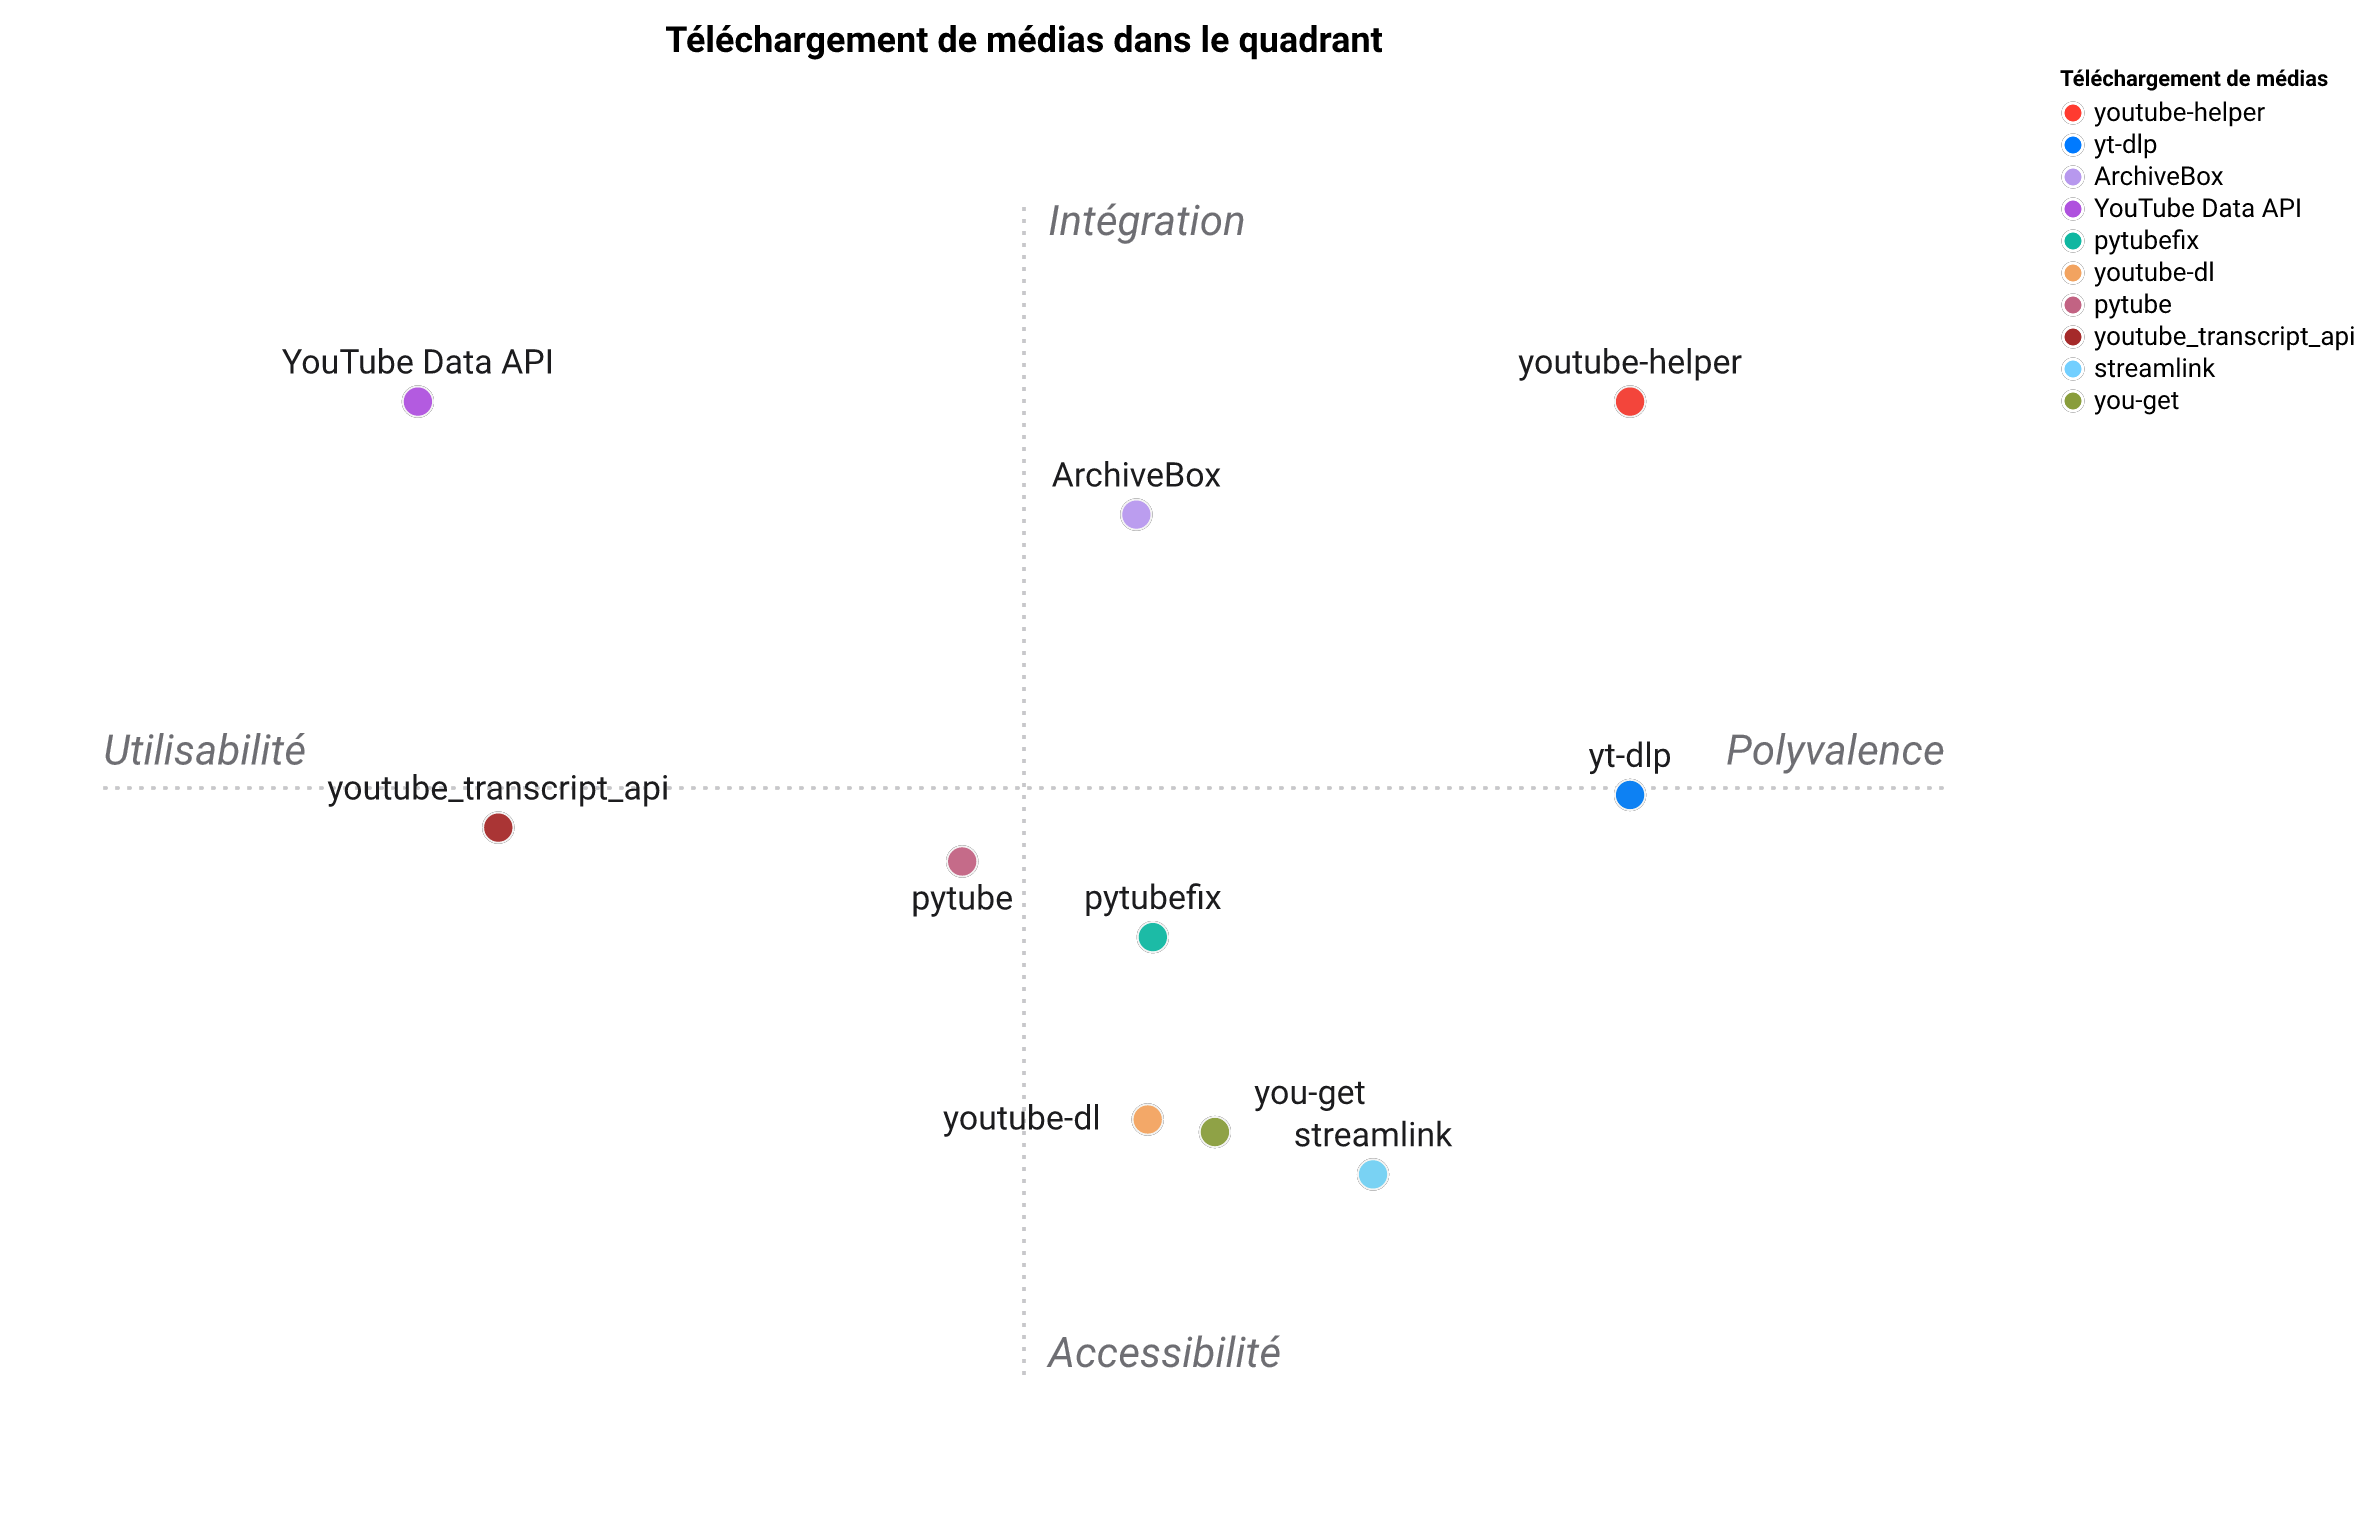
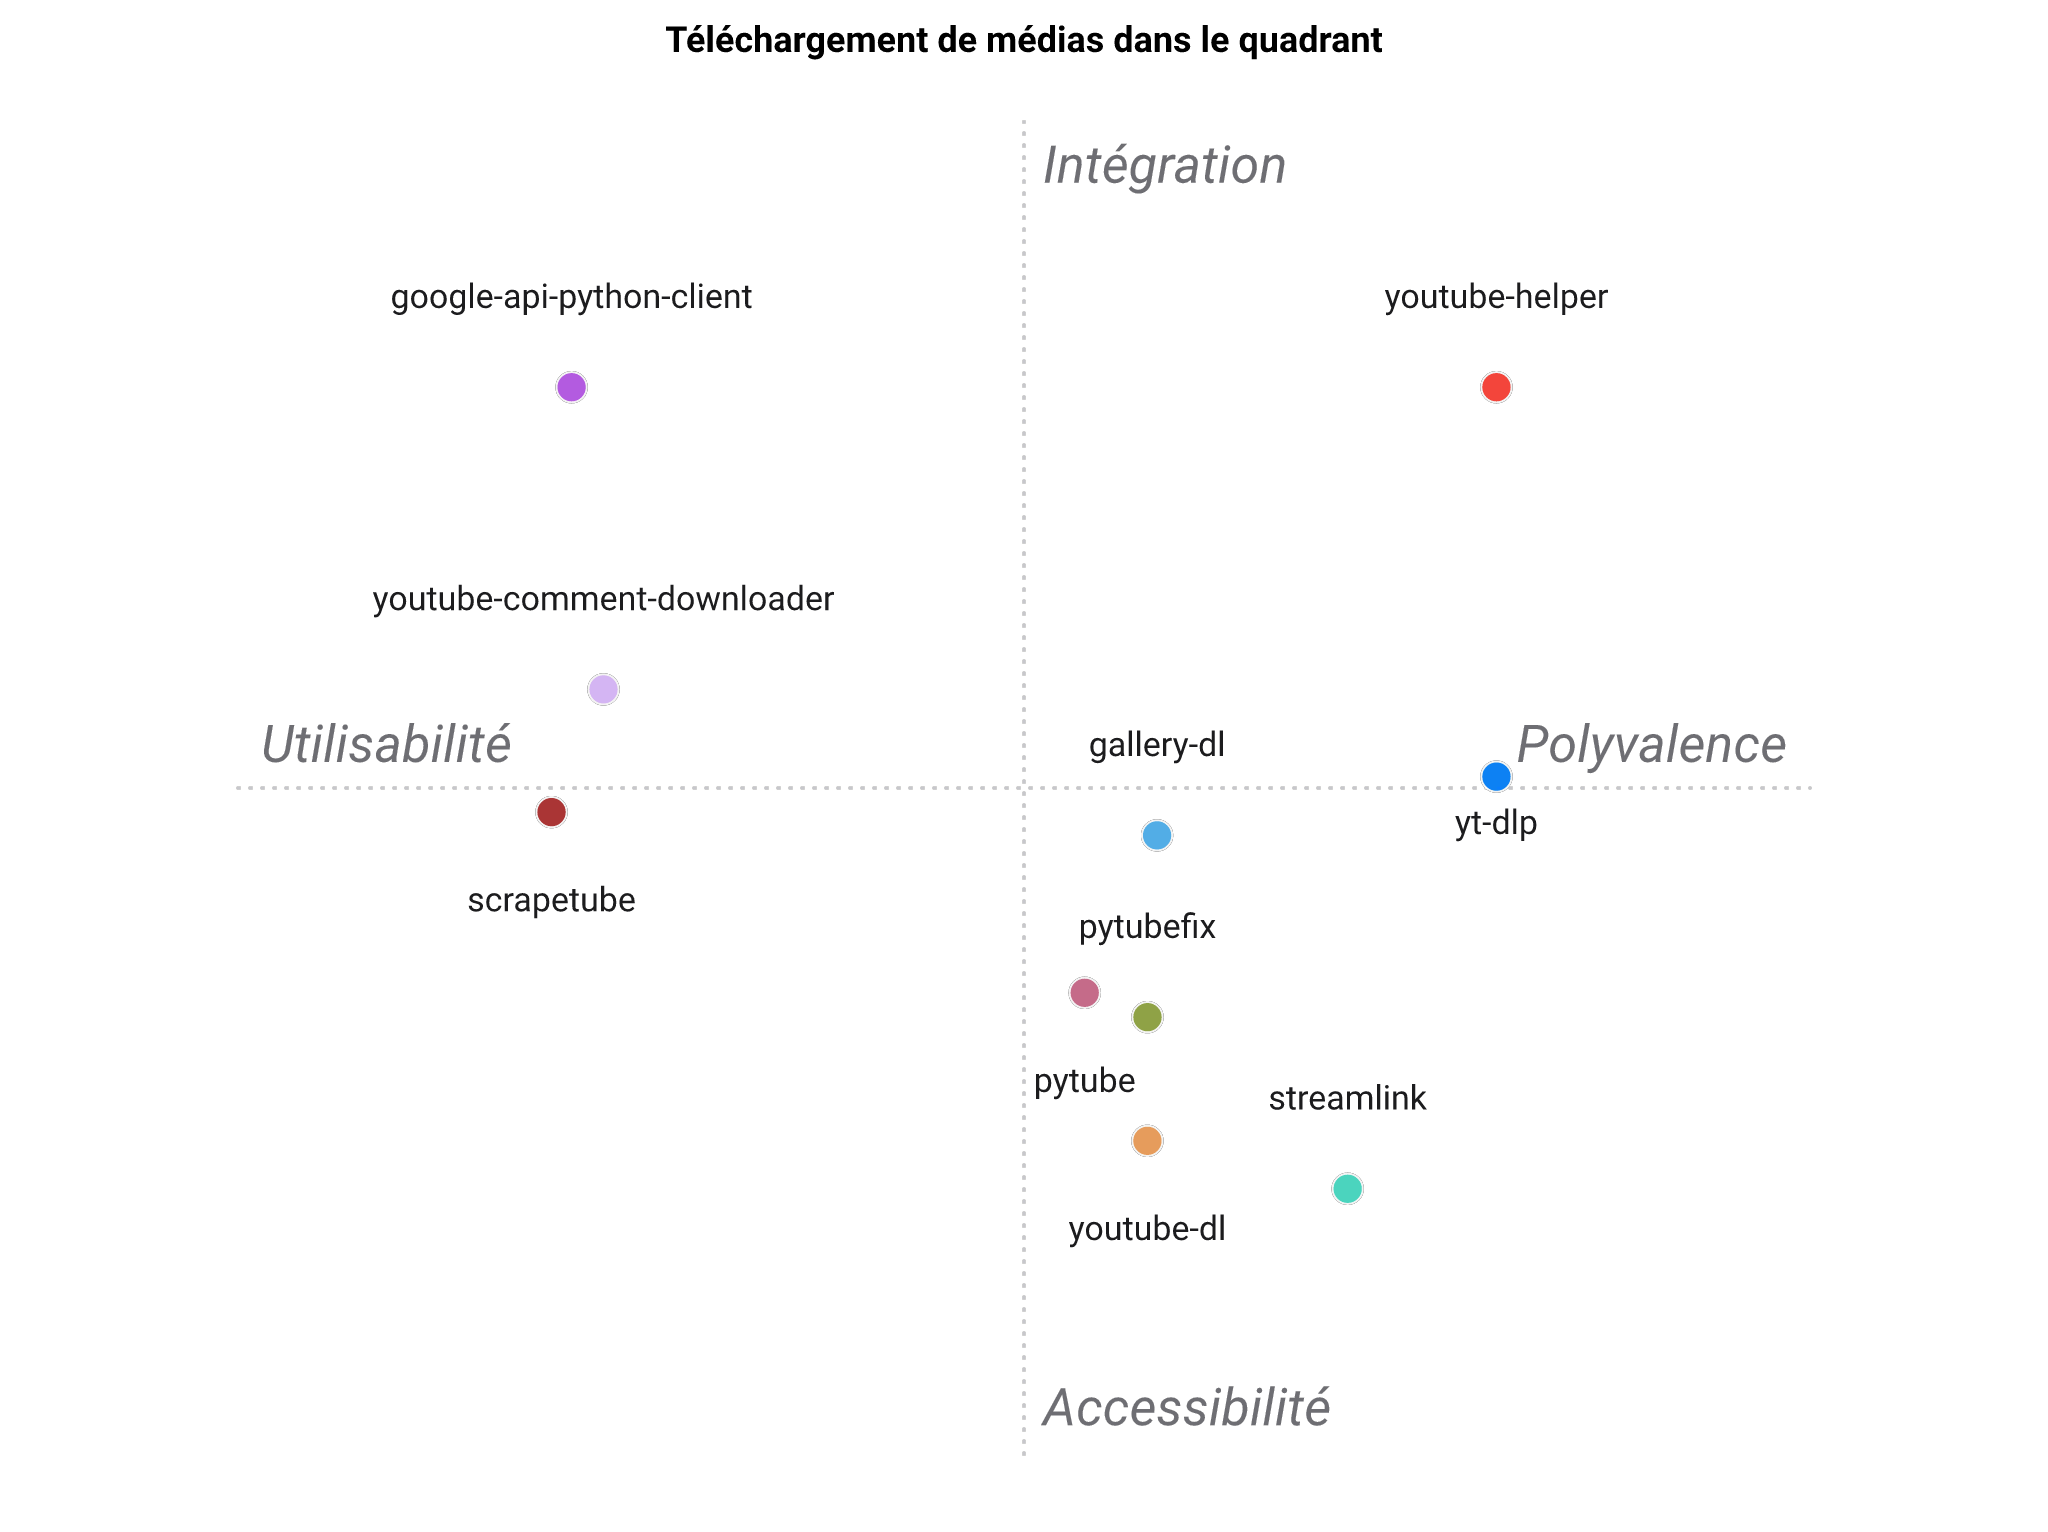
docs(landscape): sharpen competitor set; regenerate positioning map
Re-point the comparison at the real downloader/metadata stack (yt-dlp,
youtube-dl, pytube, pytubefix, streamlink, gallery-dl, scrapetube,
youtube-comment-downloader, google-api-python-client), dropping you-get /
youtube_transcript_api / ArchiveBox. Regenerate the figure via standpoint 0.6.0
and reconcile the positioning / when-to-pick prose.

diff --git a/PAYSAGE.md b/PAYSAGE.md
@@ -18,15 +18,15 @@ torrent) n'est pas pénalisé — la note reflète seulement l'adéquation à
 | Téléchargement de médias | Multi-plateforme | Téléchargement média | Résolveur d'URL directe | Sélecteur de flux | Engagement sans API | Multi-surface | Prêt pour Docker | Ergonomie pipeline IA |
 | --- | :---: | :---: | :---: | :---: | :---: | :---: | :---: | :---: |
 | **youtube-helper** | ⭐⭐⭐⭐⭐ | ⭐⭐⭐⭐⭐ | ⭐⭐⭐⭐⭐ | ⭐⭐⭐⭐⭐ | ⭐⭐⭐⭐⭐ | ⭐⭐⭐⭐⭐ | ⭐⭐⭐⭐⭐ | ⭐⭐⭐⭐⭐ |
-| yt-dlp | ⭐⭐⭐⭐⭐ | ⭐⭐⭐⭐⭐ | ⭐⭐⭐⭐ | ⭐⭐⭐ | ⭐⭐⭐ | ⭐⭐ | ⭐⭐⭐ | ⭐⭐⭐ |
-| youtube-dl | ⭐⭐⭐ | ⭐⭐⭐⭐ | ⭐⭐⭐ | ⭐⭐ | ⭐⭐ | ⭐⭐ | ⭐⭐ | ⭐⭐ |
-| pytube | ⭐ | ⭐⭐⭐ | ⭐⭐ | ⭐⭐⭐ | ⭐⭐ | ⭐⭐ | ⭐⭐ | ⭐⭐⭐ |
-| pytubefix | ⭐ | ⭐⭐⭐⭐ | ⭐⭐⭐ | ⭐⭐⭐ | ⭐⭐ | ⭐⭐ | ⭐⭐ | ⭐⭐⭐ |
-| YouTube Data API | ⭐ | ⭐ | ⭐ | ⭐ | ⭐⭐⭐⭐⭐ | ⭐⭐ | ⭐⭐⭐ | ⭐⭐ |
-| you-get | ⭐⭐⭐⭐ | ⭐⭐⭐⭐ | ⭐⭐⭐ | ⭐⭐ | ⭐⭐ | ⭐⭐ | ⭐⭐ | ⭐⭐ |
-| streamlink | ⭐⭐⭐⭐ | ⭐⭐⭐ | ⭐⭐⭐⭐⭐ | ⭐⭐ | ⭐ | ⭐⭐ | ⭐⭐⭐ | ⭐⭐ |
-| youtube_transcript_api | ⭐ | ⭐ | ⭐ | ⭐ | ⭐⭐ | ⭐⭐ | ⭐⭐ | ⭐⭐⭐ |
-| ArchiveBox | ⭐⭐⭐⭐ | ⭐⭐⭐ | ⭐⭐ | ⭐⭐ | ⭐⭐⭐ | ⭐⭐⭐ | ⭐⭐⭐⭐ | ⭐⭐ |
+| yt-dlp | ⭐⭐⭐⭐⭐ | ⭐⭐⭐⭐⭐ | ⭐⭐⭐⭐ | ⭐⭐⭐⭐ | ⭐⭐⭐ | ⭐⭐ | ⭐⭐⭐ | ⭐⭐⭐ |
+| youtube-dl | ⭐⭐⭐ | ⭐⭐⭐⭐ | ⭐⭐⭐ | ⭐⭐⭐ | ⭐⭐ | ⭐⭐ | ⭐⭐ | ⭐⭐ |
+| pytube | ⭐ | ⭐⭐⭐ | ⭐⭐⭐ | ⭐⭐⭐⭐ | ⭐⭐ | ⭐⭐ | ⭐⭐ | ⭐⭐⭐ |
+| pytubefix | ⭐ | ⭐⭐⭐⭐ | ⭐⭐⭐ | ⭐⭐⭐⭐ | ⭐⭐ | ⭐⭐ | ⭐⭐ | ⭐⭐⭐ |
+| streamlink | ⭐⭐⭐⭐ | ⭐⭐⭐ | ⭐⭐⭐⭐⭐ | ⭐⭐⭐ | ⭐ | ⭐⭐ | ⭐⭐⭐ | ⭐⭐ |
+| gallery-dl | ⭐⭐⭐⭐ | ⭐⭐⭐⭐ | ⭐⭐⭐ | ⭐⭐ | ⭐⭐⭐ | ⭐⭐ | ⭐⭐⭐ | ⭐⭐ |
+| scrapetube | ⭐ | ⭐ | ⭐ | ⭐ | ⭐⭐⭐ | ⭐ | ⭐⭐ | ⭐⭐⭐ |
+| youtube-comment-downloader | ⭐ | ⭐ | ⭐ | ⭐ | ⭐⭐⭐ | ⭐⭐ | ⭐⭐ | ⭐⭐⭐ |
+| google-api-python-client | ⭐ | ⭐ | ⭐ | ⭐ | ⭐⭐⭐⭐⭐ | ⭐⭐ | ⭐⭐⭐ | ⭐⭐ |
 <!-- TABLE:END -->
 
 ## Carte de positionnement
@@ -59,10 +59,10 @@ ajoute :
 - **Métadonnées de branding sans API** — instantanés au niveau de la
   chaîne, engagement par vidéo, échantillons de commentaires,
   téléchargements de sous-titres sans toucher à l'API Google Data (pas
-  d'OAuth, pas de quota, pas de valse client_id / secret). L'`API
-  YouTube Data` obtient la note maximale sur l'engagement justement parce
-  qu'elle est canonique, mais elle ne renvoie aucun fichier média et coûte
-  OAuth + quota.
+  d'OAuth, pas de quota, pas de valse client_id / secret).
+  `google-api-python-client` obtient la note maximale sur l'engagement
+  justement parce qu'il est canonique, mais il ne renvoie aucun fichier
+  média et coûte OAuth + quota.
 - **Surfaces multiples** — les mêmes opérations sont disponibles comme
   bibliothèque Python, CLI argparse, CLI click et surface HTTP FastAPI.
   `yt-dlp` vous donne les deux premières ; les deux dernières sont
@@ -82,14 +82,17 @@ ajoute :
 - **`pytube` / `pytubefix`** — Python pur, sans dépendance yt-dlp, mais
   limité à YouTube et légèrement en retard sur les mises à jour
   d'extracteurs (`pytubefix` est le fork maintenu).
-- **API YouTube Data** — vous avez besoin des compteurs canoniques de
-  vues / likes / abonnés, de données de rétention / d'analytics, ou vous
-  payez déjà le coût OAuth + quota.
-- **`you-get`** — un téléchargeur multi-sites large quand yt-dlp n'est pas
-  envisageable ; la couverture est vaste mais inférieure à yt-dlp.
+- **`google-api-python-client`** — vous avez besoin des compteurs
+  canoniques de vues / likes / abonnés, de données de rétention /
+  d'analytics, ou vous payez déjà le coût OAuth + quota.
 - **`streamlink`** — flux de travail orienté direct ; vous voulez passer
   une URL live directement à un lecteur sans enregistrer.
-- **`youtube_transcript_api`** — vous n'avez besoin que des
-  transcriptions, sans téléchargement ni autres métadonnées.
-- **ArchiveBox** — vous construisez une archive personnelle d'URL avec une
-  interface auto-hébergée, pas un pipeline natif code.
+- **`gallery-dl`** — téléchargements en masse de galeries d'images /
+  médias sur de nombreux sites ; la couverture est large mais l'outil
+  n'est pas pensé pour les flux vidéo ni les métadonnées d'engagement.
+- **`scrapetube`** — vous n'avez besoin que d'énumérer les identifiants
+  de vidéos d'une chaîne / playlist / recherche sans l'API Data, sans
+  téléchargement.
+- **`youtube-comment-downloader`** — vous n'avez besoin que d'aspirer en
+  masse les commentaires d'une vidéo sans toucher à l'API Data, rien
+  d'autre.

diff --git a/LANDSCAPE.md b/LANDSCAPE.md
@@ -17,15 +17,15 @@ score just reflects fit to *this* niche.
 | Media Downloading | Multi-platform | Media download | Direct-URL resolver | Stream picker | No-API engagement | Multi-surface | Docker-ready | AI-pipeline ergonomics |
 | --- | :---: | :---: | :---: | :---: | :---: | :---: | :---: | :---: |
 | **youtube-helper** | ⭐⭐⭐⭐⭐ | ⭐⭐⭐⭐⭐ | ⭐⭐⭐⭐⭐ | ⭐⭐⭐⭐⭐ | ⭐⭐⭐⭐⭐ | ⭐⭐⭐⭐⭐ | ⭐⭐⭐⭐⭐ | ⭐⭐⭐⭐⭐ |
-| yt-dlp | ⭐⭐⭐⭐⭐ | ⭐⭐⭐⭐⭐ | ⭐⭐⭐⭐ | ⭐⭐⭐ | ⭐⭐⭐ | ⭐⭐ | ⭐⭐⭐ | ⭐⭐⭐ |
-| youtube-dl | ⭐⭐⭐ | ⭐⭐⭐⭐ | ⭐⭐⭐ | ⭐⭐ | ⭐⭐ | ⭐⭐ | ⭐⭐ | ⭐⭐ |
-| pytube | ⭐ | ⭐⭐⭐ | ⭐⭐ | ⭐⭐⭐ | ⭐⭐ | ⭐⭐ | ⭐⭐ | ⭐⭐⭐ |
-| pytubefix | ⭐ | ⭐⭐⭐⭐ | ⭐⭐⭐ | ⭐⭐⭐ | ⭐⭐ | ⭐⭐ | ⭐⭐ | ⭐⭐⭐ |
-| YouTube Data API | ⭐ | ⭐ | ⭐ | ⭐ | ⭐⭐⭐⭐⭐ | ⭐⭐ | ⭐⭐⭐ | ⭐⭐ |
-| you-get | ⭐⭐⭐⭐ | ⭐⭐⭐⭐ | ⭐⭐⭐ | ⭐⭐ | ⭐⭐ | ⭐⭐ | ⭐⭐ | ⭐⭐ |
-| streamlink | ⭐⭐⭐⭐ | ⭐⭐⭐ | ⭐⭐⭐⭐⭐ | ⭐⭐ | ⭐ | ⭐⭐ | ⭐⭐⭐ | ⭐⭐ |
-| youtube_transcript_api | ⭐ | ⭐ | ⭐ | ⭐ | ⭐⭐ | ⭐⭐ | ⭐⭐ | ⭐⭐⭐ |
-| ArchiveBox | ⭐⭐⭐⭐ | ⭐⭐⭐ | ⭐⭐ | ⭐⭐ | ⭐⭐⭐ | ⭐⭐⭐ | ⭐⭐⭐⭐ | ⭐⭐ |
+| yt-dlp | ⭐⭐⭐⭐⭐ | ⭐⭐⭐⭐⭐ | ⭐⭐⭐⭐ | ⭐⭐⭐⭐ | ⭐⭐⭐ | ⭐⭐ | ⭐⭐⭐ | ⭐⭐⭐ |
+| youtube-dl | ⭐⭐⭐ | ⭐⭐⭐⭐ | ⭐⭐⭐ | ⭐⭐⭐ | ⭐⭐ | ⭐⭐ | ⭐⭐ | ⭐⭐ |
+| pytube | ⭐ | ⭐⭐⭐ | ⭐⭐⭐ | ⭐⭐⭐⭐ | ⭐⭐ | ⭐⭐ | ⭐⭐ | ⭐⭐⭐ |
+| pytubefix | ⭐ | ⭐⭐⭐⭐ | ⭐⭐⭐ | ⭐⭐⭐⭐ | ⭐⭐ | ⭐⭐ | ⭐⭐ | ⭐⭐⭐ |
+| streamlink | ⭐⭐⭐⭐ | ⭐⭐⭐ | ⭐⭐⭐⭐⭐ | ⭐⭐⭐ | ⭐ | ⭐⭐ | ⭐⭐⭐ | ⭐⭐ |
+| gallery-dl | ⭐⭐⭐⭐ | ⭐⭐⭐⭐ | ⭐⭐⭐ | ⭐⭐ | ⭐⭐⭐ | ⭐⭐ | ⭐⭐⭐ | ⭐⭐ |
+| scrapetube | ⭐ | ⭐ | ⭐ | ⭐ | ⭐⭐⭐ | ⭐ | ⭐⭐ | ⭐⭐⭐ |
+| youtube-comment-downloader | ⭐ | ⭐ | ⭐ | ⭐ | ⭐⭐⭐ | ⭐⭐ | ⭐⭐ | ⭐⭐⭐ |
+| google-api-python-client | ⭐ | ⭐ | ⭐ | ⭐ | ⭐⭐⭐⭐⭐ | ⭐⭐ | ⭐⭐⭐ | ⭐⭐ |
 <!-- TABLE:END -->
 
 ## Positioning map
@@ -35,7 +35,7 @@ score just reflects fit to *this* niche.
 
 ![Positioning map](https://raw.githubusercontent.com/warith-harchaoui/youtube-helper/main/assets/landscape.png)
 
-The map is a 2-D summary of the eight criteria, so read it as a shape, not a scoreboard. `youtube-helper` is at the top-right corner. The axes read **Horizontal — Self-contained ↔ Media-centric** and **Vertical — Multi-platform ↔ No-API**.
+The map is a 2-D summary of the eight criteria, so read it as a shape, not a scoreboard. `youtube-helper` is at the top-right corner. The axes read **Horizontal — Self-contained ↔ Media-centric** and **Vertical — Direct-access ↔ API-agnostic**.
 <!-- FIGURE:END -->
 
 ## Positioning
@@ -55,7 +55,7 @@ the hood). What it adds:
 - **No-API branding metadata** — channel-level snapshots, per-video
   engagement, comment samples, subtitle downloads without touching the
   Google Data API (no OAuth, no quota, no client_id / secret dance).
-  The `YouTube Data API` scores top marks on engagement precisely
+  `google-api-python-client` scores top marks on engagement precisely
   because it is canonical, but it returns no media files and costs OAuth
   + quota.
 - **Multi-surface exposure** — the same operations are available as a
@@ -77,14 +77,15 @@ the hood). What it adds:
 - **`pytube` / `pytubefix`** — pure Python, no yt-dlp dependency, but
   YouTube-only and slightly behind on extractor updates (`pytubefix`
   is the maintained fork).
-- **YouTube Data API** — you need canonical view / like / subscriber
-  counts, retention / analytics data, or you are already paying the
-  OAuth + quota cost.
-- **`you-get`** — a broad multi-site downloader when yt-dlp is not an
-  option; coverage is wide but below yt-dlp.
+- **`google-api-python-client`** — you need canonical view / like /
+  subscriber counts, retention / analytics data, or you are already
+  paying the OAuth + quota cost.
 - **`streamlink`** — live-first workflow; you want to hand a live URL
   straight to a player without recording.
-- **`youtube_transcript_api`** — you only need transcripts, no
-  downloads, no other metadata.
-- **ArchiveBox** — you are building a personal archive of URLs with a
-  self-hosted UI, not a code-native pipeline.
+- **`gallery-dl`** — bulk image / media gallery downloads across many
+  sites; coverage is broad but it is not built around video streams or
+  engagement metadata.
+- **`scrapetube`** — you only need to enumerate a channel / playlist /
+  search result's video IDs without the Data API, no downloads.
+- **`youtube-comment-downloader`** — you only need to bulk-scrape a
+  video's comments without touching the Data API, nothing else.
